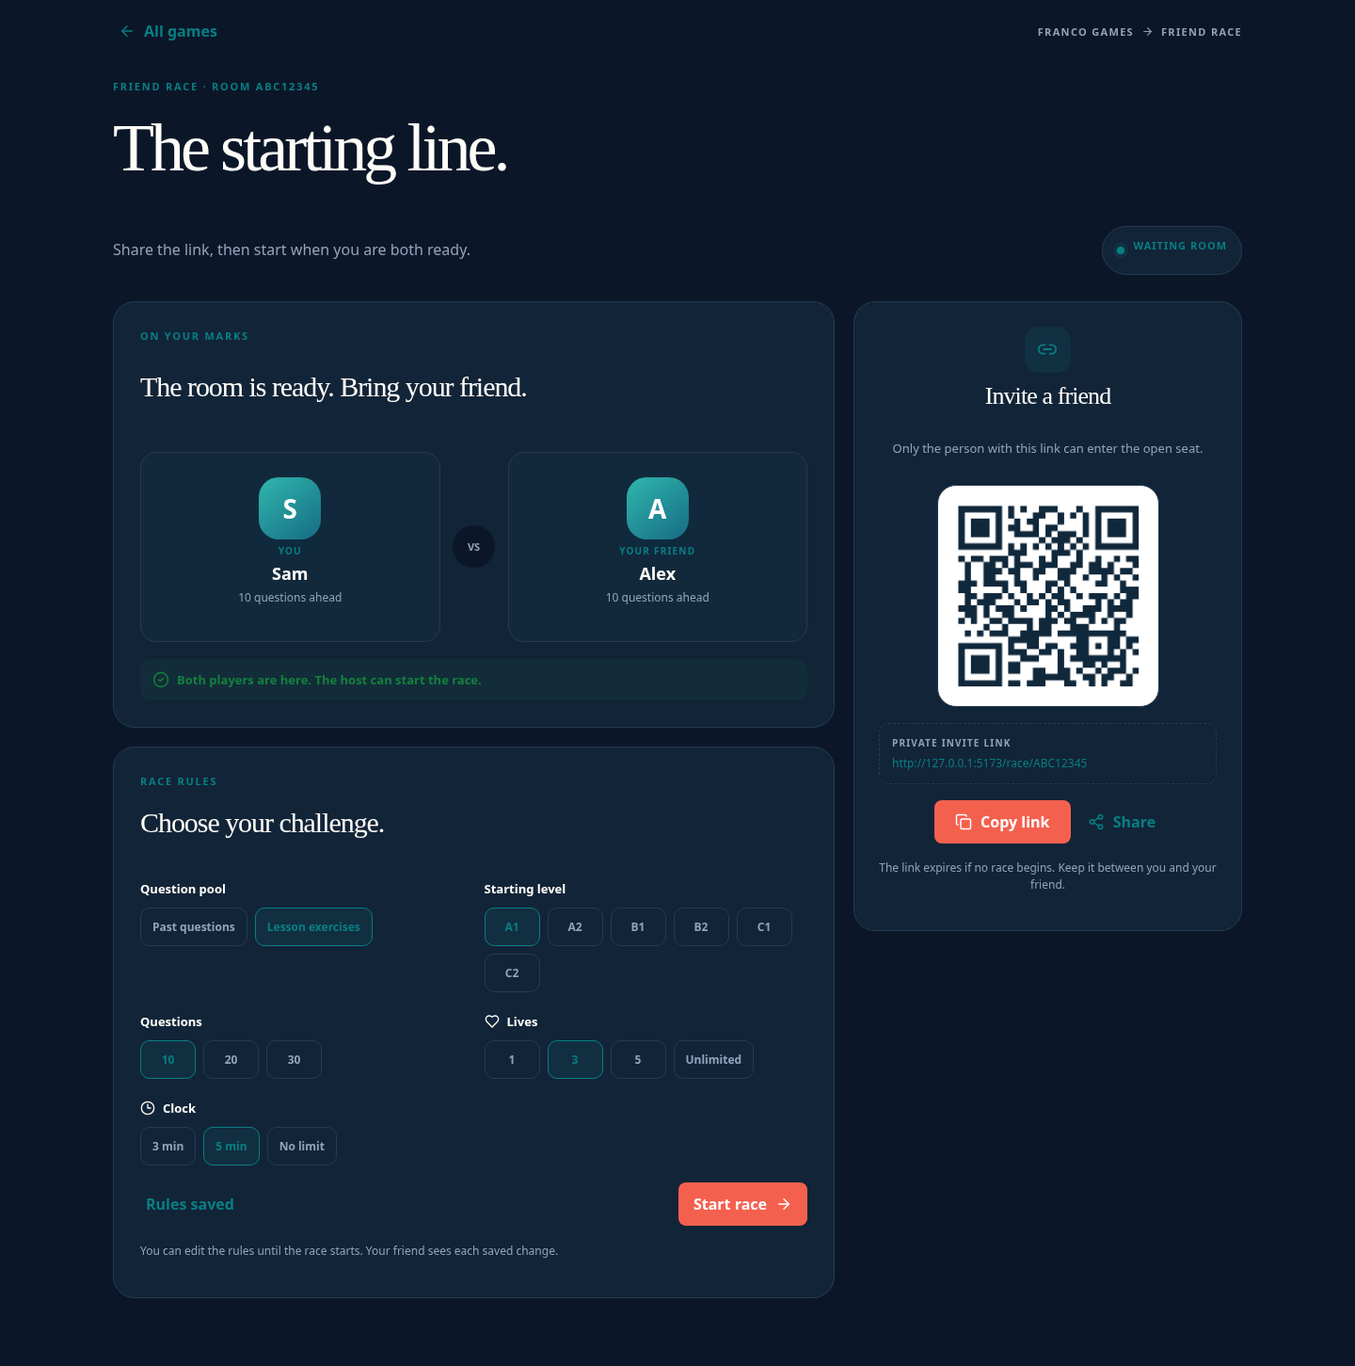
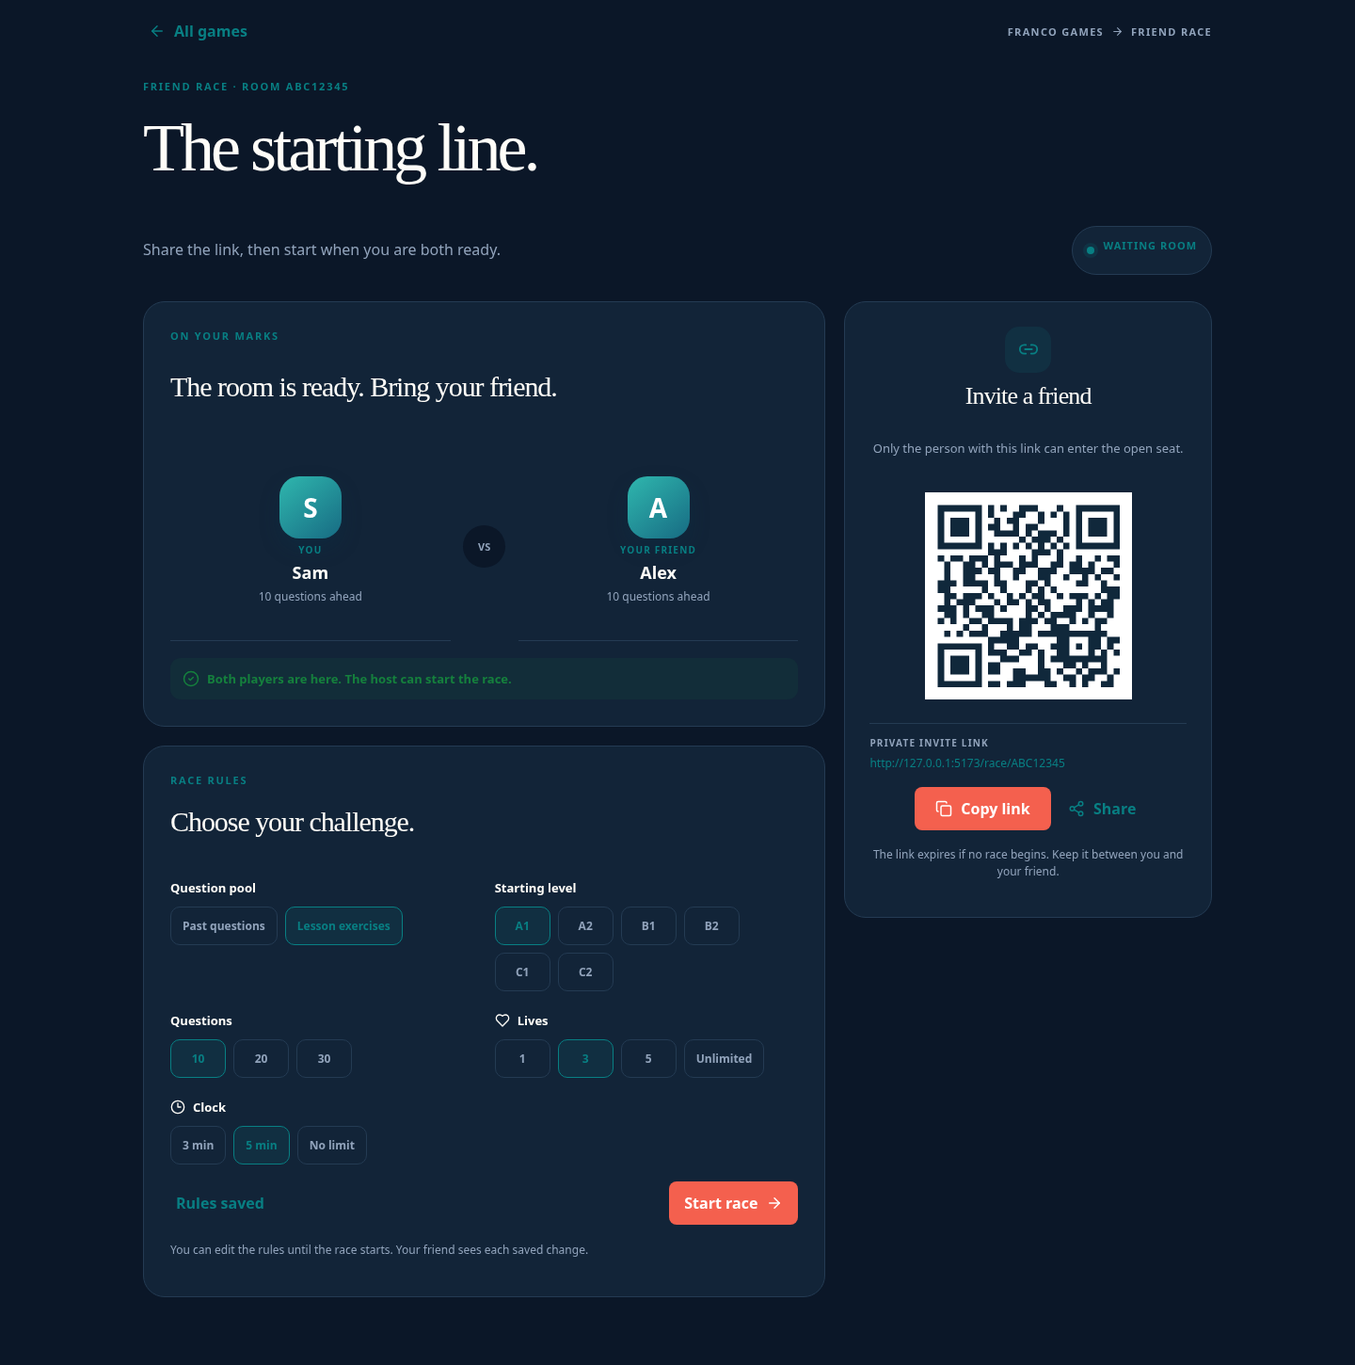
Address Friend Race review feedback

diff --git a/src/views/Race.tsx b/src/views/Race.tsx
@@ -3,6 +3,7 @@ import QRCode from 'qrcode';
 import { ArrowLeft, ArrowRight, Check, CheckCircle2, Clock3, Copy, Flag, Heart, Link2, LockKeyhole, QrCode, RotateCcw, Share2, Sparkles, Trophy, Users, X } from 'lucide-react';
 import { AudioPlayer, Box, Button, ErrorMessage, RaceInviteCode, Text, TextInput } from '../components/ui';
 import { useRaceRealtime } from '../hooks/useRaceRealtime';
+import { ApiError, apiRequest } from '../api/client.js';
 
 type RaceConfig = {
   source: 'past_questions' | 'lesson_exercises';
@@ -67,7 +68,6 @@ const LEVELS: RaceConfig['level'][] = ['A1', 'A2', 'B1', 'B2', 'C1', 'C2'];
 const SOURCES: { id: RaceConfig['source']; label: string }[] = [{ id: 'past_questions', label: 'Past questions' }, { id: 'lesson_exercises', label: 'Lesson exercises' }];
 const LIFE_OPTIONS: RaceConfig['lives'][] = [1, 3, 5, null];
 const TIME_OPTIONS: { seconds: number | null; label: string }[] = [{ seconds: 180, label: '3 min' }, { seconds: 300, label: '5 min' }, { seconds: null, label: 'No limit' }];
-const API_BASE = (import.meta.env.VITE_API_URL || '').replace(/\/+$/, '');
 
 function tokenKey(code: string) { return `franco_race_player_${code}`; }
 function timeLabel(ms: number) {
@@ -77,19 +77,18 @@ function timeLabel(ms: number) {
 function errorText(error: string | Error) { return error instanceof Error ? error.message : error; }
 
 async function raceRequest<T>(path: string, method: 'GET' | 'POST' | 'PATCH', session: string | null, player: string | null, body?: object): Promise<T> {
-  const headers: Record<string, string> = { 'content-type': 'application/json' };
-  if (session) headers.authorization = `Bearer ${session}`;
-  if (player) headers['x-race-player-token'] = player;
-  const response = await fetch(`${API_BASE}${path}`, { method, headers, cache: 'no-store', body: body === undefined ? undefined : JSON.stringify(body) });
-  if (!response.ok) {
-    let message = response.status === 404 ? 'This race link was not found.' : response.status === 410 ? 'This race link has expired.' : response.status === 409 ? 'This race is full or has already started.' : 'The race could not be updated. Please try again.';
-    try {
-      const payload: { error?: string; message?: string } = await response.json();
-      message = payload.error || payload.message || message;
-    } catch { /* Keep the useful HTTP fallback. */ }
-    throw new Error(message);
+  try {
+    return await apiRequest<T>(path, method, body, session, { racePlayerToken: player });
+  } catch (error) {
+    if (error instanceof ApiError && !error.serverMessage) {
+      const message = error.status === 404 ? 'This race link was not found.'
+        : error.status === 410 ? 'This race link has expired.'
+        : error.status === 409 ? 'This race is full or has already started.'
+        : 'The race could not be updated. Please try again.';
+      throw new Error(message);
+    }
+    throw error;
   }
-  return response.json();
 }
 
 function roomPlayers(state: RaceState) {
@@ -311,22 +310,22 @@ export function Race({ code, token, onExit }: Props) {
         <Box className="race-invite-panel"><Box className="race-invite-heading"><Box className="race-invite-icon"><Link2 size={22} /></Box><Text as="h2">Invite a friend</Text><Text>Only the person with this link can enter the open seat.</Text></Box><RaceInviteCode image={qrImage} url={inviteUrl} /><Box className="race-invite-link"><Text as="small">PRIVATE INVITE LINK</Text><Text as="span">{inviteUrl}</Text></Box><Box className="race-invite-actions"><Button variant="primary" icon={copied ? Check : Copy} onClick={() => void copyInvite()}>{copied ? 'Copied!' : 'Copy link'}</Button><Button variant="text" icon={Share2} onClick={() => void shareInvite()}>Share</Button></Box><Text className="race-footnote">The link expires if no race begins. Keep it between you and your friend.</Text></Box>
       </Box>}
 
-      {room.status === 'live' && <>
+      {(room.status === 'live' || Boolean(feedback)) && <>
         <Box className="race-scoreboard"><RaceScore player={me} title="YOU" count={maxQuestions} /><Box className="race-scoreboard-clock"><Clock3 size={20} /><Text as="small">TIME LEFT</Text><Text as="strong">{remaining === null ? '∞' : timeLabel(remaining)}</Text></Box><RaceScore player={opponent} title="FRIEND" count={maxQuestions} /></Box>
-        {me && shownQuestion && !me.finished_at && <Box className="race-question"><Box className="race-question-top"><Text className="race-kicker">QUESTION {Math.min(maxQuestions, answered + (feedback ? 0 : 1))} OF {maxQuestions}</Text><Text as="span">{shownQuestion.level || room.config.level}</Text></Box><Text as="h2">{shownQuestion.prompt}</Text>{shownQuestion.context && <Text className="race-context">{shownQuestion.context}</Text>}{shownQuestion.audio_url && <AudioPlayer src={shownQuestion.audio_url} />}
+        {me && shownQuestion && (!me.finished_at || Boolean(feedback)) && <Box className="race-question"><Box className="race-question-top"><Text className="race-kicker">QUESTION {Math.min(maxQuestions, answered + (feedback ? 0 : 1))} OF {maxQuestions}</Text><Text as="span">{shownQuestion.level || room.config.level}</Text></Box><Text as="h2">{shownQuestion.prompt}</Text>{shownQuestion.context && <Text className="race-context">{shownQuestion.context}</Text>}{shownQuestion.audio_url && <AudioPlayer src={shownQuestion.audio_url} />}
           {shownQuestion.kind === 'choice' && <Box className="race-choices">{shownQuestion.choices?.map((choice, index) => <Box as="button" type="button" key={choice.id} disabled={busy || Boolean(feedback)} className={`race-choice${feedback?.selected === choice.id ? feedback.correct ? ' is-correct' : ' is-wrong' : ''}`} onClick={() => void answer(shownQuestion, choice.id, choice.id)}><Text as="span">{String.fromCharCode(65 + index)}</Text><Text as="strong">{choice.text}</Text><ArrowRight size={18} aria-hidden="true" /></Box>)}</Box>}
           {shownQuestion.kind === 'word_order' && <><Box className="race-word-answer">{selectedTokens.length ? selectedTokens.map((id) => { const item = shownQuestion.tokens?.find((tokenItem) => tokenItem.id === id); return <Box as="button" type="button" key={id} disabled={busy || Boolean(feedback)} onClick={() => setSelectedTokens((previous) => previous.filter((candidate) => candidate !== id))}>{item?.text}</Box>; }) : <Text>Tap words to build your answer.</Text>}</Box><Box className="race-word-bank">{shownQuestion.tokens?.filter((item) => !selectedTokens.includes(item.id)).map((item) => <Box as="button" type="button" key={item.id} disabled={busy || Boolean(feedback)} onClick={() => setSelectedTokens((previous) => [...previous, item.id])}>{item.text}</Box>)}</Box>{!feedback && <Button variant="primary" disabled={busy || selectedTokens.length !== shownQuestion.tokens?.length} onClick={() => void answer(shownQuestion, selectedTokens.map((id) => shownQuestion.tokens?.find((item) => item.id === id)?.text || ''), selectedTokens.join(','))}>Check answer</Button>}</>}
           {feedback && <Box className={`race-feedback ${feedback.correct ? 'is-correct' : 'is-wrong'}`} role="status"><Box className="race-feedback-icon">{feedback.correct ? <Check size={22} /> : <X size={22} />}</Box><Box><Text as="strong">{feedback.correct ? 'Nicely done. Keep moving!' : 'Not this time. Keep racing!'}</Text>{feedback.reveal && <Text>Answer: {feedback.reveal}</Text>}</Box><Button variant="primary" onClick={() => setFeedback(null)} icon={ArrowRight} iconPosition="after">Continue</Button></Box>}
         </Box>}
-        {me?.finished_at && <Box className="race-finished-wait"><Trophy size={36} /><Text as="h2">You crossed the finish line.</Text><Text>Your score is in. Waiting for your friend to finish…</Text>{room.config.timer_seconds === null && <Text>If your friend disconnects, the race ends after 10 minutes of inactivity.</Text>}</Box>}
+        {me?.finished_at && !feedback && room.status === 'live' && <Box className="race-finished-wait"><Trophy size={36} /><Text as="h2">You crossed the finish line.</Text><Text>Your score is in. Waiting for your friend to finish…</Text>{room.config.timer_seconds === null && <Text>If your friend disconnects, the race ends after 10 minutes of inactivity.</Text>}</Box>}
         {!me && <Box className="race-finished-wait"><LockKeyhole size={34} /><Text as="h2">This race has started.</Text><Text>Only the two invited players can race. Ask for a new invite if you missed the start.</Text></Box>}
         {me && !shownQuestion && !me.finished_at && <Box className="race-finished-wait"><Clock3 size={28} /><Text as="h2">Loading your next question…</Text></Box>}
-        {me && !me.finished_at && <Box className="race-leave-action"><Button variant="text" onClick={() => void act('/finish')} disabled={busy}>Finish my race early</Button></Box>}
+        {me && !me.finished_at && !feedback && room.status === 'live' && <Box className="race-leave-action"><Button variant="text" onClick={() => void act('/finish')} disabled={busy}>Finish my race early</Button></Box>}
       </>}
 
       {room.status === 'expired' && <Box className="race-not-found"><Clock3 size={42} /><Text as="h2">This invite has expired.</Text><Text>Race links last 24 hours. Start a fresh room to play again.</Text><Button variant="primary" onClick={onExit}>Browse games</Button></Box>}
       {room.status === 'finished' && !me && <Box className="race-not-found"><LockKeyhole size={42} /><Text as="h2">Both seats are taken.</Text><Text>Only the two players can review this race. Ask your friend for a new invite.</Text><Button variant="primary" onClick={onExit}>Browse games</Button></Box>}
-      {room.status === 'finished' && me && <Box className="race-results"><Box className="race-results-hero"><Box className="race-trophy"><Trophy size={43} /></Box><Text className="race-kicker">RACE COMPLETE</Text><Text as="h2">{!opponent ? 'Your race is complete.' : room.winner_seat === 'tie' ? 'It’s a tie!' : room.winner_seat === me.seat ? 'You won the race!' : 'Your friend won this one.'}</Text><Text>Same questions. Two different journeys. Ready for a rematch?</Text></Box><Box className="race-result-cards"><RaceScore player={me} title="YOU" count={maxQuestions} /><Box className="race-versus">VS</Box><RaceScore player={opponent} title="FRIEND" count={maxQuestions} /></Box>{(state?.review ?? me?.review ?? []).length > 0 && <Box className="race-review"><Text as="h3">Your question review</Text>{(state?.review ?? me?.review ?? []).map((item, index) => <Box className="race-review-row" key={`${item.question_id}-${index}`}><Box className={item.correct ? 'is-correct' : 'is-wrong'}>{item.correct ? <Check size={17} /> : <X size={17} />}</Box><Text>{item.prompt}</Text><Text as="small">{item.reveal || item.answer}</Text></Box>)}</Box>}<Button variant="primary" icon={RotateCcw} onClick={onExit}>Play another game</Button></Box>}
+      {room.status === 'finished' && me && !feedback && <Box className="race-results"><Box className="race-results-hero"><Box className="race-trophy"><Trophy size={43} /></Box><Text className="race-kicker">RACE COMPLETE</Text><Text as="h2">{!opponent ? 'Your race is complete.' : room.winner_seat === 'tie' ? 'It’s a tie!' : room.winner_seat === me.seat ? 'You won the race!' : 'Your friend won this one.'}</Text><Text>Same questions. Two different journeys. Ready for a rematch?</Text></Box><Box className="race-result-cards"><RaceScore player={me} title="YOU" count={maxQuestions} /><Box className="race-versus">VS</Box><RaceScore player={opponent} title="FRIEND" count={maxQuestions} /></Box>{(state?.review ?? me?.review ?? []).length > 0 && <Box className="race-review"><Text as="h3">Your question review</Text>{(state?.review ?? me?.review ?? []).map((item, index) => <Box className="race-review-row" key={`${item.question_id}-${index}`}><Box className={item.correct ? 'is-correct' : 'is-wrong'}>{item.correct ? <Check size={17} /> : <X size={17} />}</Box><Text>{item.prompt}</Text><Text as="small">{item.reveal || item.answer}</Text></Box>)}</Box>}<Button variant="primary" icon={RotateCcw} onClick={onExit}>Play another game</Button></Box>}
     </>}
     {room && error && <ErrorMessage message={error} />}
   </Box>;

diff --git a/src/styles.css b/src/styles.css
@@ -3017,7 +3017,7 @@ html:not([data-theme="light"]) .story-shelf-copy small { color: #f6a957; }
 }
 
 /* FRA-146 — Friend Race */
-.race-page { display:grid; gap:28px; max-width:1200px; margin:0 auto; padding:10px 0 72px; }
+.race-page { display:grid; gap:28px; max-width:1200px; margin:0 auto; padding:10px clamp(18px,3vw,32px) 72px; }
 .race-topline { display:flex; align-items:center; justify-content:space-between; gap:18px; }
 .race-topline .text-button { width:auto; margin:0; color:var(--color-accent); }
 .race-topline > span { display:flex; align-items:center; gap:8px; color:var(--color-muted); font-size:var(--text-11); font-weight:750; letter-spacing:.12em; }
@@ -3070,8 +3070,7 @@ html:not([data-theme="light"]) .story-shelf-copy small { color: #f6a957; }
 .race-lobby-card,.race-lobby-settings,.race-join-panel,.race-guest-wait,.race-invite-panel,.race-question,.race-finished-wait,.race-results,.race-review { border:1px solid var(--color-border); border-radius:23px; background:var(--color-surface); }
 .race-lobby-card,.race-lobby-settings,.race-join-panel,.race-guest-wait { display:grid; gap:18px; padding:28px; }
 .race-runners { display:grid; grid-template-columns:minmax(0,1fr) 56px minmax(0,1fr); align-items:center; gap:8px; margin-top:8px; }
-.race-runner { display:grid; justify-items:center; gap:5px; min-width:0; padding:26px 10px; border:1px dashed var(--color-border); border-radius:17px; text-align:center; }
-.race-runner.is-here { border-style:solid; background:color-mix(in srgb,var(--color-accent) 5%,var(--color-surface)); }
+.race-runner { display:grid; justify-items:center; gap:5px; min-width:0; padding:26px 10px; border-bottom:1px solid var(--color-border); text-align:center; }
 .race-runner-avatar,.race-score-avatar { display:grid; place-items:center; width:66px; height:66px; border-radius:21px; background:linear-gradient(140deg,#2fb7ae,#176b83); color:white; font-size:var(--text-28); font-weight:800; box-shadow:0 10px 22px #06375036; }
 .race-runner:not(.is-here) .race-runner-avatar { background:var(--color-border); color:var(--color-muted); box-shadow:none; }
 .race-runner small,.race-score-person small { color:var(--color-accent); font-size:var(--text-10); font-weight:850; letter-spacing:.12em; }
@@ -3080,7 +3079,7 @@ html:not([data-theme="light"]) .story-shelf-copy small { color: #f6a957; }
 .race-versus { display:grid; place-items:center; width:45px; height:45px; margin:auto; border-radius:50%; background:var(--color-background); color:var(--color-muted); font-size:var(--text-11); font-weight:850; }
 .race-ready { display:flex; align-items:center; gap:8px; padding:13px; border-radius:11px; background:color-mix(in srgb,var(--palette-green) 10%,var(--color-surface)); color:var(--palette-green); font-size:var(--text-13); font-weight:750; }
 .race-lobby-settings > div:first-child { display:grid; gap:8px; }
-.race-rule-summary { display:grid; gap:12px; padding:18px; border:1px solid var(--color-border); border-radius:var(--radius-panel); background:var(--color-background); }
+.race-rule-summary { display:grid; gap:12px; padding:18px 0; border-top:1px solid var(--color-border); border-bottom:1px solid var(--color-border); }
 .race-rule-summary p { margin:0; color:var(--color-text); font-weight:600; }
 .race-lobby-actions { display:flex; justify-content:space-between; align-items:center; gap:10px; }
 .race-lobby-actions .text-button,.race-invite-actions .text-button { width:auto; margin:0; color:var(--color-accent); }
@@ -3092,10 +3091,10 @@ html:not([data-theme="light"]) .story-shelf-copy small { color: #f6a957; }
 .race-invite-icon { display:grid; place-items:center; width:49px; height:49px; border-radius:15px; background:color-mix(in srgb,var(--color-accent) 13%,var(--color-surface)); color:var(--color-accent); }
 .race-invite-heading h2 { font-family:var(--font-heading); font-size:var(--text-26); font-weight:500; }
 .race-invite-heading p { color:var(--color-muted); font-size:var(--text-13); }
-.race-invite-code { display:grid; place-items:center; width:236px; height:236px; padding:8px; border:1px solid var(--color-border); border-radius:20px; background:white; color:#14364a; }
-.race-invite-code img { width:100%; height:100%; border-radius:10px; }
+.race-invite-code { display:grid; place-items:center; width:236px; height:236px; padding:8px; color:#14364a; }
+.race-invite-code img { width:100%; height:100%; }
 .race-invite-code span { font-size:var(--text-12); }
-.race-invite-link { display:grid; gap:6px; width:100%; padding:13px; border:1px dashed var(--color-border); border-radius:10px; text-align:left; }
+.race-invite-link { display:grid; gap:6px; width:100%; padding:13px 0 0; border-top:1px solid var(--color-border); text-align:left; }
 .race-invite-link small { color:var(--color-muted); font-size:var(--text-10); font-weight:850; letter-spacing:.12em; }
 .race-invite-link span { overflow-wrap:anywhere; color:var(--color-accent); font-size:var(--text-12); }
 .race-invite-actions { display:flex; align-items:center; justify-content:center; gap:12px; }

diff --git a/src/api/client.ts b/src/api/client.ts
@@ -59,6 +59,7 @@ export type ApiErrorBody = {
 /** Per-request options: a scoped content API key (x-api-key), never a URL. */
 export type ApiRequestOptions = {
   apiKey?: string | null;
+  racePlayerToken?: string | null;
 };
 
 /** GET /api/health */
@@ -885,7 +886,7 @@ function errorMessageFrom(payload: unknown, status: number): string {
 }
 
 export class ApiError extends Error {
-  constructor(message: string, public status: number, public code: string | null) { super(message); }
+  constructor(message: string, public status: number, public code: string | null, public serverMessage = false) { super(message); }
 }
 
 async function parseApiResponse<T = ApiResponse>(response: Response): Promise<T> {
@@ -896,7 +897,9 @@ async function parseApiResponse<T = ApiResponse>(response: Response): Promise<T>
     throw new Error('The server sent an unreadable response. Please try again.');
   }
   if (!response.ok) {
-    throw new ApiError(errorMessageFrom(payload, response.status), response.status, isJsonObject(payload) ? safeText(payload.code) || null : null);
+    const reported = isJsonObject(payload) ? safeText(payload.error) || safeText(payload.message) : '';
+    throw new ApiError(errorMessageFrom(payload, response.status), response.status,
+      isJsonObject(payload) ? safeText(payload.code) || null : null, Boolean(reported));
   }
   // Justification: T is the caller-declared endpoint response shape (the
   // apiGet/apiPost type argument, defaulting to ApiResponse); the JSON body
@@ -962,6 +965,19 @@ export async function apiPost<T = ApiResponse>(path: string, body?: JsonValue, t
     headers,
     body: JSON.stringify(body),
   });
+  return parseApiResponse(response);
+}
+
+/** Shared JSON transport for feature endpoints with PATCH or guest seat tokens. */
+export async function apiRequest<T = ApiResponse>(path: string, method: 'GET' | 'POST' | 'PATCH', body?: object,
+  token?: string | null, options: ApiRequestOptions = {}): Promise<T> {
+  const headers: Record<string, string> = {};
+  if (body !== undefined) headers['content-type'] = 'application/json';
+  if (token) headers.authorization = `Bearer ${token}`;
+  if (options.apiKey) headers['x-api-key'] = options.apiKey;
+  if (options.racePlayerToken) headers['x-race-player-token'] = options.racePlayerToken;
+  const response = await fetch(apiUrl(path), { method, headers, cache: 'no-store',
+    body: body === undefined ? undefined : JSON.stringify(body) });
   return parseApiResponse(response);
 }
 

diff --git a/server/index.js b/server/index.js
@@ -21,7 +21,7 @@ import { displayName, isNonEmptyName } from './user-names.js';
 import { getLearnerProgress } from './learner-progress.js';
 import { getLessonPosition,saveLessonPosition } from './lesson-positions.js';
 import { PuzzleError, puzzleSummary, startPuzzle, getPuzzle, answerPuzzle, endPuzzle, startVerbSprint, getVerbSprint, answerVerbSprint, endVerbSprint } from './puzzles.js';
-import { RaceError, createRoom, getRoom, joinRoom, configureRoom, startRoom, answerRoom, finishRoom } from './races.js';
+import { RaceError, createRoom, getRoom, joinRoom, configureRoom, startRoom, answerRoom, finishRoom, pruneRaceRooms } from './races.js';
 import { allowAuthEmail, authClientIp, genericEmailResponse, hashEmailToken, sendAuthEmail, validEmailToken } from './auth-email.js';
 import { emailConfigured } from './email.js';
 
@@ -262,7 +262,12 @@ async function ingestBatch(batch) {
 }
 const storyService=createStoryService(pool);
 async function main() {
-    await migrate(); createServer(async (req, res) => {
+    await migrate();
+    const cleanExpiredRaces = () => { void pruneRaceRooms().catch((error) => console.error('Race cleanup failed:', error)); };
+    cleanExpiredRaces();
+    const raceCleanupTimer = setInterval(cleanExpiredRaces, 60 * 60 * 1000);
+    raceCleanupTimer.unref();
+    createServer(async (req, res) => {
         try {
             res.setHeader('access-control-allow-origin', corsOrigin(req.headers.origin));
             if (req.method === 'OPTIONS') return json(res, 204, {}); const u = new URL(req.url, `http://${req.headers.host}`);

diff --git a/server/race-rules.js b/server/race-rules.js
@@ -6,9 +6,11 @@ export const RACE_LEVELS = ['A1', 'A2', 'B1', 'B2', 'C1', 'C2'];
 export const RACE_ABANDON_GRACE_MS = 10 * 60 * 1000;
 
 export function abandonedRacePlayer(players, now = Date.now()) {
-  if (players.length !== 2 || !players.some((player) => player.finished_at)) return null;
+  if (players.length !== 2) return null;
+  const finisher = players.find((player) => player.finished_at);
+  if (!finisher) return null;
   return players.find((player) => !player.finished_at && player.last_seen_at
-    && now - new Date(player.last_seen_at).getTime() >= RACE_ABANDON_GRACE_MS) ?? null;
+    && now - Math.max(new Date(player.last_seen_at).getTime(), new Date(finisher.finished_at).getTime()) >= RACE_ABANDON_GRACE_MS) ?? null;
 }
 
 export function validRaceConfig(value) {

diff --git a/README.md b/README.md
@@ -32,6 +32,17 @@ Friend Race (`/race`) uses the same `DATABASE_URL`; the API applies its race-tab
 
 ```mermaid
 flowchart LR
+  Host[Signed-in host] -->|room and answers| API[Franco API]
+  Guest[Invite-link guest] -->|room and answers| API
+  API --> DB[(Supabase PostgreSQL)]
+  Host <-->|public anon key: room nudges| RT[Supabase Realtime]
+  Guest <-->|public anon key: room nudges| RT
+  Host -. polling fallback .-> API
+  Guest -. polling fallback .-> API
+```
+
+```mermaid
+flowchart LR
   Browser[Franco web app] -->|signup / resend / forgot| API[Render API]
   API -->|hash and store one-use token| DB[(Supabase PostgreSQL)]
   API -->|RESEND_API_KEY: send link| Resend[Resend]
